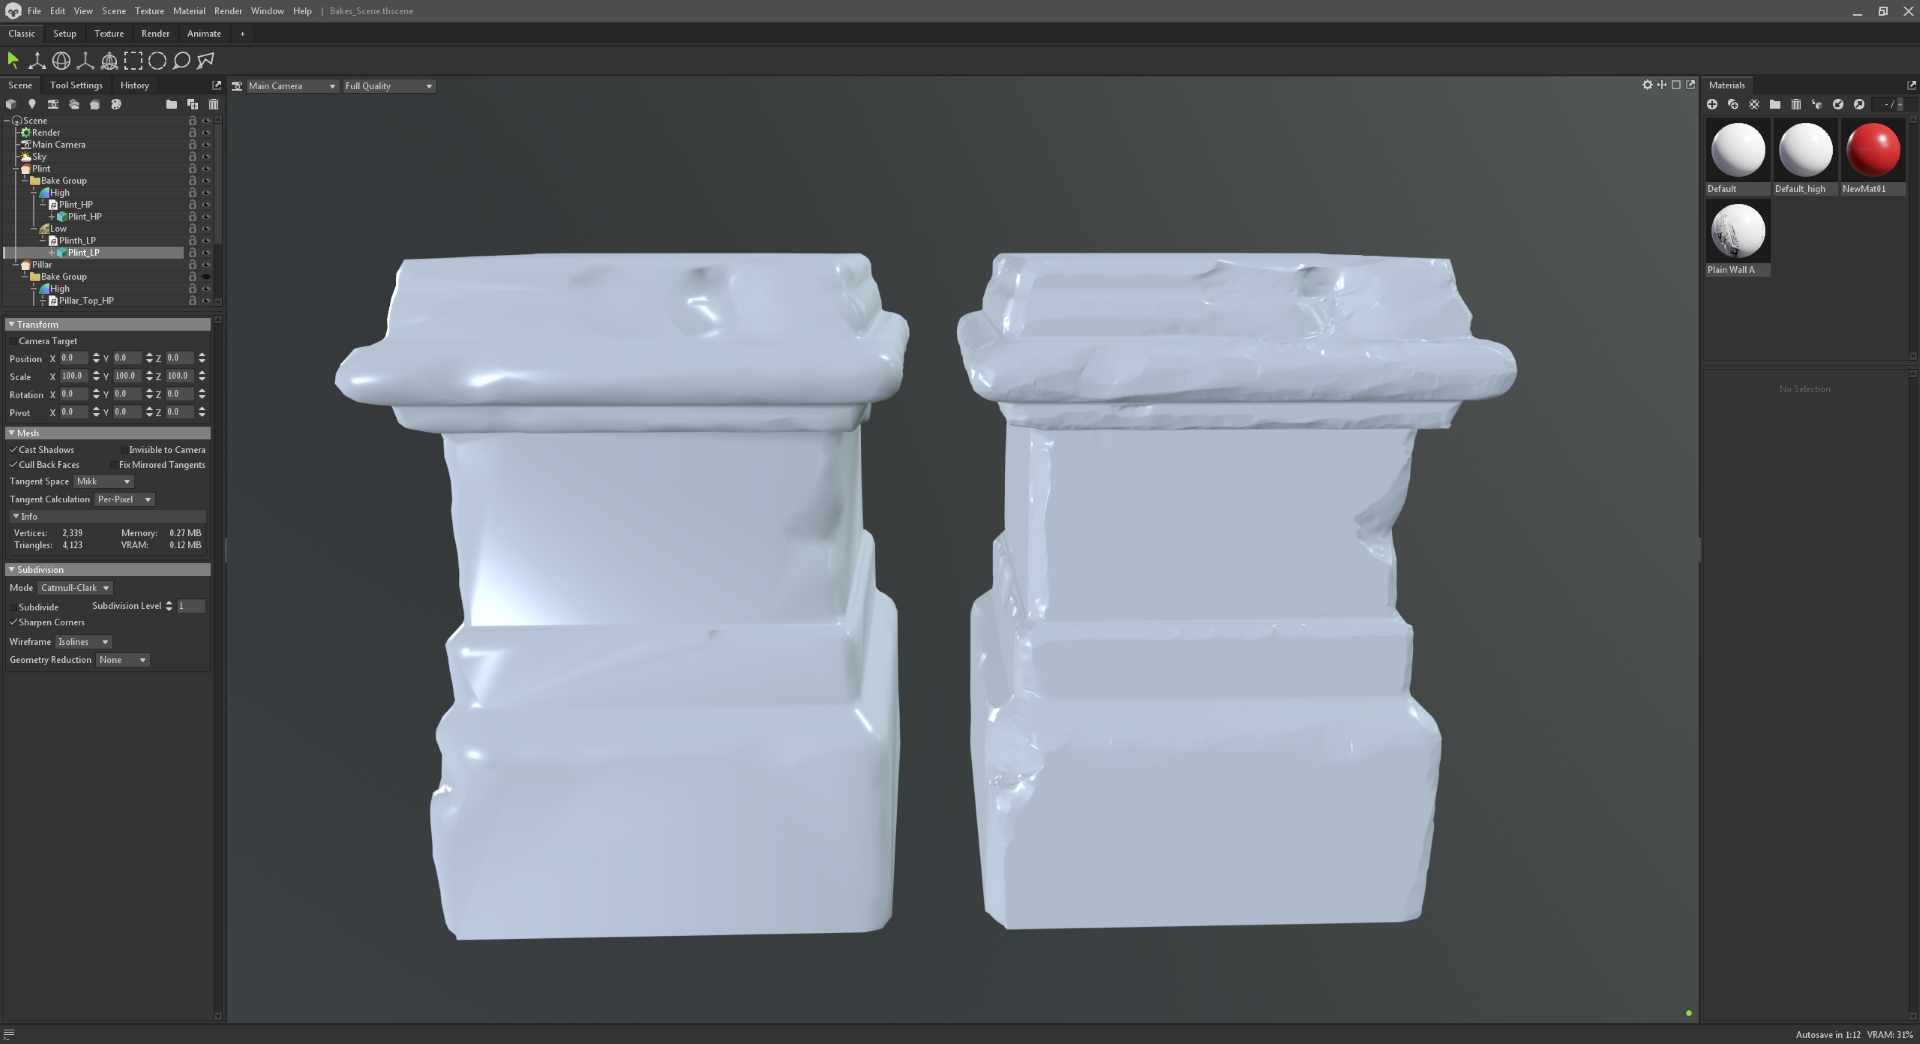
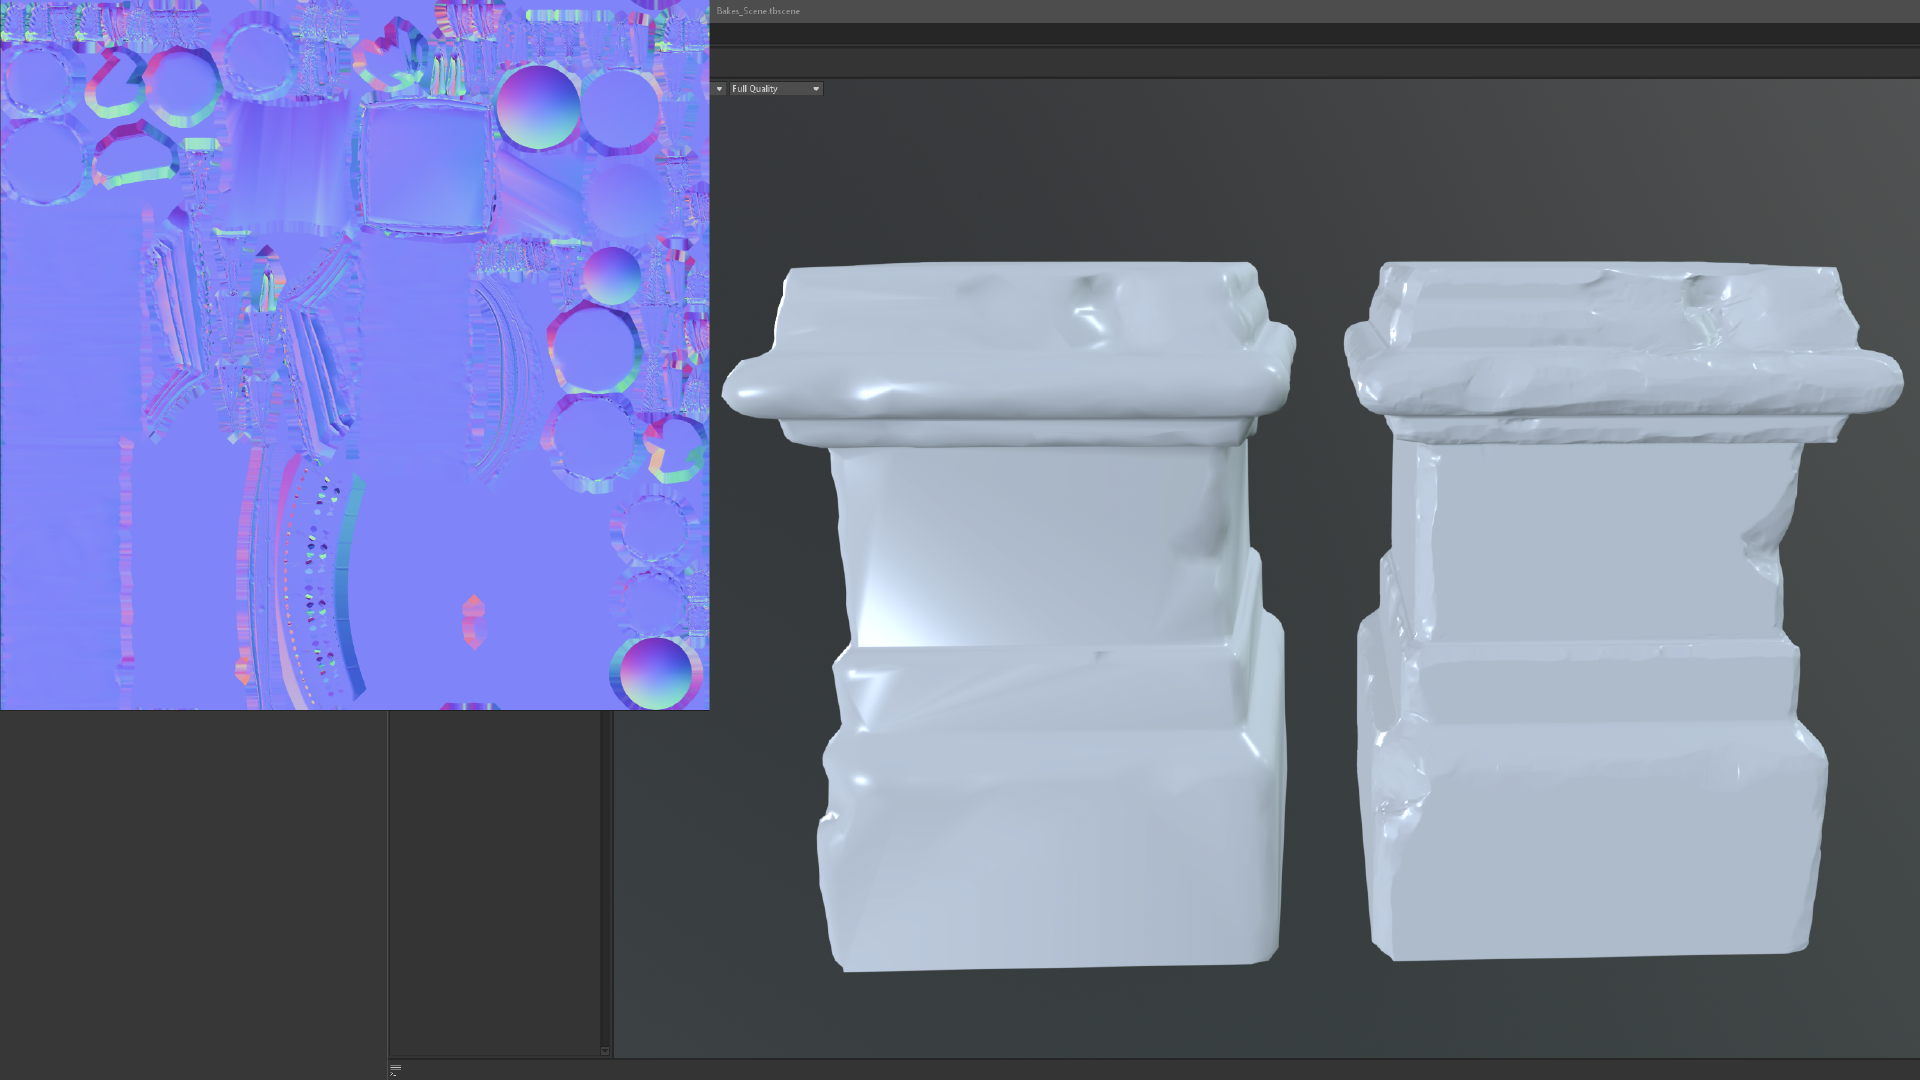
more details

diff --git a/public/Romanesque/index.html b/public/Romanesque/index.html
@@ -70,7 +70,7 @@
 <img src="/images/RMSQ_Img5.png" alt="">
 
 <hr class="divider">
-<h3>Sculpting</h3>
+<h3>Sculpting / Normal Map</h3>
 <p>With everything in place I move on to Zbrush to sculpt higher details onto the models that will be sitting in the foreground! The workflow in Zbrush is really simple, I dynamesh the model into a high poly mesh with a few million faces, and using only 2 brush,
   trimdynamic and smoothboord, I sculpt damages and finer details. Then using decimation master, create a second low poly version of the model for baking normal maps in Marmoset Toolbag.
 </p>
@@ -78,6 +78,12 @@
 <h3>Marmoset is Awesome</h3>
 <p>Side by side, low poly model, with and without normal map of the Zbrush details. Thank you Marmoset</p>
 <img src="/images/RMSQ_Img7.png" alt="">
+
+<hr class="divider">
+<h3>Mask Map</h3>
+<p>Substance Painter has tools for generative details on models. Baking them and creating my own tempalte smart material and export profile, allows me to generate unique mask maps per model that give more details like dirt, colour variation, dust, roughness variatiom etc.
+  This really gives the model signs of life and the best part being that these details can be exposed in the material editors of both Unreal Engine and Unity. So that I can create further unique variations of each generative detail.
+</p>
 
 </div>
 
